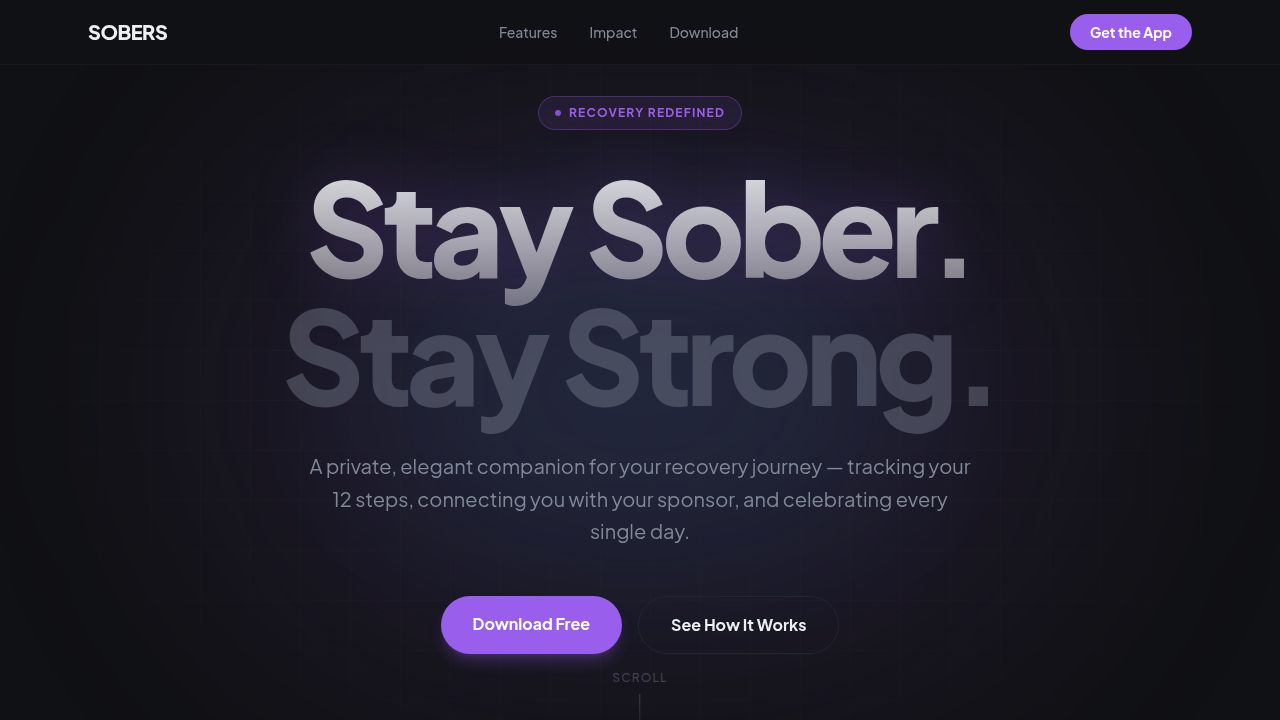
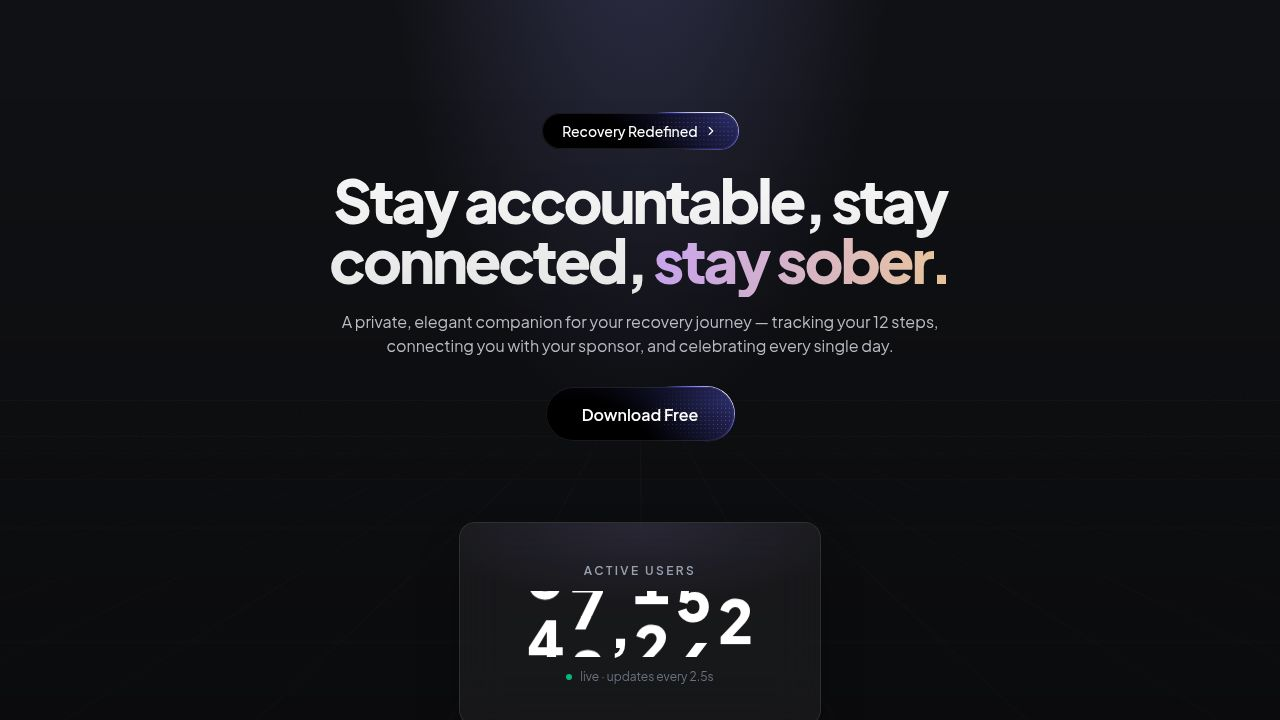
Fix unreadable text in the hero section by adjusting line height
Remove the `leading-0` class from the HeroSection's description container div to correct line height and prevent text overlap.

Replit-Commit-Author: Agent
Replit-Commit-Session-Id: 2459ee6f-101f-4742-9f2c-248a6b0981a4
Replit-Commit-Checkpoint-Type: full_checkpoint
Replit-Commit-Event-Id: 32b9246d-676f-4e90-bb32-920e3dbaafd3
Replit-Commit-Screenshot-Url: https://storage.googleapis.com/screenshot-production-us-central1/918ea153-9719-4365-92ee-e832dbd55d41/2459ee6f-101f-4742-9f2c-248a6b0981a4/R3DYXTd
Replit-Helium-Checkpoint-Created: true

diff --git a/artifacts/sobers-website/src/components/HeroSection.tsx b/artifacts/sobers-website/src/components/HeroSection.tsx
@@ -71,7 +71,7 @@ const HeroSection = React.forwardRef<HTMLDivElement, HeroSectionProps>(
         <section className="relative max-w-full mx-auto z-1">
           <RetroGrid {...gridOptions} />
           <div className="max-w-screen-xl z-10 mx-auto px-4 py-28 gap-12 md:px-8">
-            <div className="space-y-5 max-w-3xl leading-0 lg:leading-5 mx-auto text-center">
+            <div className="space-y-5 max-w-3xl mx-auto text-center">
 
               {/* Badge — ShinyButton effect, small pill style */}
               <div className="flex justify-center">